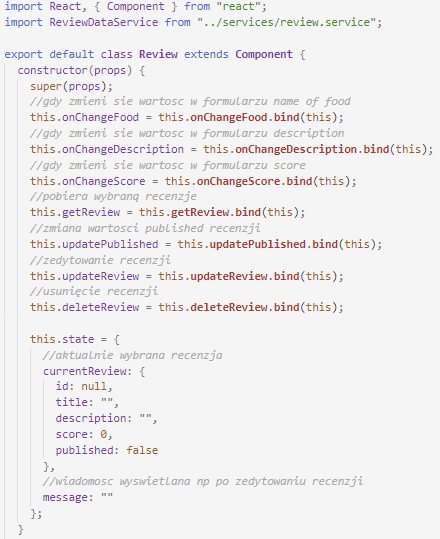
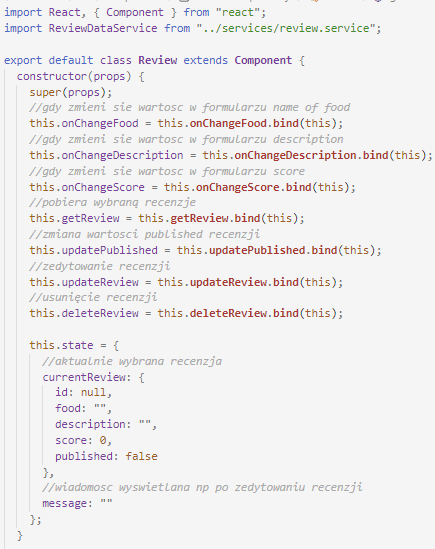
done?

diff --git a/Laboratorium9/frontend/react-crud/src/components/add-review.component.js b/Laboratorium9/frontend/react-crud/src/components/add-review.component.js
@@ -5,10 +5,13 @@ import { Link } from "react-router-dom";
 export default class AddReview extends Component {
   constructor(props) {
     super(props);
+    //zmiany wartosci w formularzu
     this.onChangeFood = this.onChangeFood.bind(this);
     this.onChangeDescription = this.onChangeDescription.bind(this);
     this.onChangeScore = this.onChangeScore.bind(this);
+    //zapisanie nowej recenzji
     this.saveReview = this.saveReview.bind(this);
+    //zmiana stanu na początkowy
     this.newReview = this.newReview.bind(this);
 
     this.state = {
@@ -17,36 +20,50 @@ export default class AddReview extends Component {
       description: "", 
       score: 0,
       published: false,
-
+      //false gdy nie zapiszemy naszej nowej recenzji
+      //po zmianie statusu na true wyswietla sie co innego na stronie
       submitted: false
     };
   }
 
+  //gdy zmienia sie wartosc w formularzu
+  //zapisuja wartosc z formularza
+  //zmieniają stan
   onChangeFood(e) {
     this.setState({
       food: e.target.value
     });
   }
-
   onChangeDescription(e) {
     this.setState({
       description: e.target.value
     });
   }
-
   onChangeScore(e) {
       this.setState({
           score: e.target.value
       });
   }
 
+  //tworzenie nowej recenzji
+  //zapisywanie jej
   saveReview() {
+    //utworzenie obiektu o wartosciach
+    //zapisanych w stanie
+    //food, description,score
     var data = {
       food: this.state.food,
       description: this.state.description,
       score: this.state.score
     };
 
+    //wykorzystanie metody create z pliku
+    //review.service.js
+    //zmieniany jest stan
+    //podstawiane są wartosci nowej recenzji
+    //submitted zmienia sie na true, co powoduje zmienienie
+    //wyswietlanych rzeczy na stronie
+    //w konsoli wyswietlana jest nowa recenzja
     ReviewDataService.create(data)
       .then(response => {
         this.setState({
@@ -64,6 +81,11 @@ export default class AddReview extends Component {
       });
   }
 
+  //wykonywana po wcisnieciu guzika add more
+  //"czyszczenie" stanu, by moc utworzyc nową recenzje
+  //stan musi byc do tego czysty, czyli musi miec
+  //wartosci takie, jakie mial na samym poczatku
+  //przed stworzeniem nowej recenzji
   newReview() {
     this.setState({
       id: null,

diff --git a/Laboratorium9/frontend/react-crud/src/components/review.component.js b/Laboratorium9/frontend/react-crud/src/components/review.component.js
@@ -23,7 +23,7 @@ export default class Review extends Component {
       //aktualnie wybrana recenzja
       currentReview: {
         id: null,
-        title: "",
+        food: "",
         description: "",
         score: 0,
         published: false
@@ -110,7 +110,7 @@ export default class Review extends Component {
   updatePublished(status) {
     var data = {
       id: this.state.currentReview.id,
-      title: this.state.currentReview.food,
+      food: this.state.currentReview.food,
       description: this.state.currentReview.description,
       score: this.state.currentReview.score,
       published: status
@@ -191,7 +191,7 @@ export default class Review extends Component {
                   type="text"
                   className="form-control"
                   id="food"
-                  value={currentReview.tfood}
+                  value={currentReview.food}
                   onChange={this.onChangeFood}
                 />
               </div>

diff --git a/Laboratorium9/food/settings.py b/Laboratorium9/food/settings.py
@@ -21,7 +21,6 @@ BASE_DIR = Path(__file__).resolve().parent.parent
 
 # SECURITY WARNING: keep the secret key used in production secret!
 
-
 # SECURITY WARNING: don't run with debug turned on in production!
 DEBUG = True
 

diff --git a/Laboratorium9/README.md b/Laboratorium9/README.md
@@ -5,6 +5,12 @@ Backend napisany w Django, a frontend napisany za pomocą React.js.
 
 Utworzyłam aplikację z recenzjami jedzenia. Jest to aplikacja CRUD (Create Read Update Delete). Oznacza to, że te cztery podstawowe funkcje są dostępne w stosunku do recenzji (tworzenie, odczytywanie, edytowanie, usuwanie recenzji).
 
+#### Spis treści:
+- Backend - Django [TUTAJ](https://github.com/kamilanagorska/aplikacje-internetowe-nagorska-185ic/tree/main/Laboratorium9#backend----django)
+- Backend - działanie [TUTAJ](https://github.com/kamilanagorska/aplikacje-internetowe-nagorska-185ic/tree/main/Laboratorium9#dzia%C5%82anie-backendu)
+- Frontend - React.js [TUTAJ](https://github.com/kamilanagorska/aplikacje-internetowe-nagorska-185ic/tree/main/Laboratorium9#frontend-reactjs)
+- Frontend - działanie [TUTAJ]()
+
 #### Backend -  Django
 Do utworzenia tego projektu potrzebne były dwa pakiety: djangorestframework i django-cors-headers. Pierwszy z nich już był używany w ramach zajęć, drugi nie.
 
@@ -97,6 +103,10 @@ Gdy odkomentuje zakomentowane url i widok to mam dostęp również do strony loc
 Dodatkowo mogę też wyszukiwać recenzje z wybraną frazą w nazwie jedzenia, np. wchodząc w localhost:8080/api/reviews?food=ma wyświetlane zostają tylko recenzje zawierające ma w nazwie jedzenia:
 
 ![20](https://github.com/kamilanagorska/aplikacje-internetowe-nagorska-185ic/blob/main/Laboratorium9/screenshots/20.png?raw=true)
+
+Recenzje są też oczywiście wwyświetlane w panelu administracyjnym Django:
+
+![54](https://github.com/kamilanagorska/aplikacje-internetowe-nagorska-185ic/blob/main/Laboratorium9/screenshots/54.png?raw=true)
 
 #### Frontend React.js
 Aplikacja korzysta z pakietu react-router-dom, używanego już nie raz na zajęciach. W komponencie App umieściłam navbar, który umożliwia nam przejście do podstrony ze wszystkimi recenzjami i podstrony umożliwiającej dodanie nowej recenzji. Na stronie głównej (ścieżka "/") też wyświetlana jest lista recenzji. Dodatkowo zdefiniowałam ścieżkę do podstrony wyświetlającej szczegóły jednej recenzji i umożliwiającej jej edycje lub usunięcie ("/reviews/:id").
@@ -215,5 +225,116 @@ Poniżej znajdują się jeszcze dwa guziki:
 ![46](https://github.com/kamilanagorska/aplikacje-internetowe-nagorska-185ic/blob/main/Laboratorium9/screenshots/46.png?raw=true)
 
 ##### Komponent add-review.component.js
+W konstruktorze jak za każdym razem znajduje się stan i związanie metod:
 
+![48](https://github.com/kamilanagorska/aplikacje-internetowe-nagorska-185ic/blob/main/Laboratorium9/screenshots/48.png?raw=true)
 
+Poniżej zdefiniowane metody:
+- onChangeFood(e), onChangeDescription(e), onChangeScore(e) - działają tak samo, wykonują się, gdy zmieniona zostaje wartość w formularzu, zmieniają stan:
+
+![49](https://github.com/kamilanagorska/aplikacje-internetowe-nagorska-185ic/blob/main/Laboratorium9/screenshots/49.png?raw=true)
+
+- saveReview() - tworzy nową recenzję i zmienia jej status submitted na true:
+
+![50](https://github.com/kamilanagorska/aplikacje-internetowe-nagorska-185ic/blob/main/Laboratorium9/screenshots/50.png?raw=true)
+
+- newReview() - wykonywana po wciśnięciu guzika Add more, który wyświetla się po utworzeniu już nowej recenzji, ustawia wartości w stanie na te początkowe
+
+![51](https://github.com/kamilanagorska/aplikacje-internetowe-nagorska-185ic/blob/main/Laboratorium9/screenshots/51.png?raw=true)
+
+W render() to co, jest wyświetlane na stronie. Jeśli utworzona już została nowa recenzja wyświetlany jest komunikat o udanym utworzeniu i guzik Add more umożliwiający ponowne utworzenie nowej recenzji. Dodałam tutaj też guzik All reviews, który powoduje przejście do podstrony z listą wszystkich recenzji.
+
+![52](https://github.com/kamilanagorska/aplikacje-internetowe-nagorska-185ic/blob/main/Laboratorium9/screenshots/52.png?raw=true)
+
+Jeśli submitted jest równe false, czyli nie utworzyliśmy jeszcze nowej recenzji to wyświetlany jest formularz umożliwiający wpisanie szczegółów recenzji. Na końcu znajduje się guzik, którego wciśnięcie powoduje zapisanie wprowadzonych danych i utworzenie recenzji.
+
+![53](https://github.com/kamilanagorska/aplikacje-internetowe-nagorska-185ic/blob/main/Laboratorium9/screenshots/53.png?raw=true)
+
+#### Działanie frontendu
+Gdy wchodzimy na stronę główną lub na podstronę '/reviews' wyświetlana jest lista wszystkich recenzji:
+
+![55](https://github.com/kamilanagorska/aplikacje-internetowe-nagorska-185ic/blob/main/Laboratorium9/screenshots/55.png?raw=true)
+
+Są one też wyświetlane w konsoli: 
+
+![59](https://github.com/kamilanagorska/aplikacje-internetowe-nagorska-185ic/blob/main/Laboratorium9/screenshots/59.png?raw=true)
+
+Na górze znajduje się navbar, który umożliwia przejście do '/' klikając na Food Reviewer, do '/reviews' klikając all reviews lub do '/add' klikając add new review. Pod navbarem jest pole, gdzie możemy wpisać nazwę jedzenia, które zostanie wyszukane:
+
+![56](https://github.com/kamilanagorska/aplikacje-internetowe-nagorska-185ic/blob/main/Laboratorium9/screenshots/56.png?raw=true)
+
+Po kliknięciu guzika Search:
+
+![57](https://github.com/kamilanagorska/aplikacje-internetowe-nagorska-185ic/blob/main/Laboratorium9/screenshots/57.png?raw=true)
+
+Wynik w konsoli:
+
+![60](https://github.com/kamilanagorska/aplikacje-internetowe-nagorska-185ic/blob/main/Laboratorium9/screenshots/60.png?raw=true)
+
+Gdy klikniemy na wybraną recenzje pojawią się jej szczegóły:
+
+![58](https://github.com/kamilanagorska/aplikacje-internetowe-nagorska-185ic/blob/main/Laboratorium9/screenshots/58.png?raw=true)
+
+Możemy kliknąć Edit, co spowoduje przejście do podstrony z edycją recenzji:
+
+![61](https://github.com/kamilanagorska/aplikacje-internetowe-nagorska-185ic/blob/main/Laboratorium9/screenshots/61.png?raw=true)
+
+W konsoli jest wyświetlana wybrana recenzja:
+
+![62](https://github.com/kamilanagorska/aplikacje-internetowe-nagorska-185ic/blob/main/Laboratorium9/screenshots/62.png?raw=true)
+
+Zmienienie statusu recenzji klikając UnPublish:
+
+![63](https://github.com/kamilanagorska/aplikacje-internetowe-nagorska-185ic/blob/main/Laboratorium9/screenshots/63.png?raw=true)
+
+Zmieniona recenzja pojawia się w konsoli:
+
+![64](https://github.com/kamilanagorska/aplikacje-internetowe-nagorska-185ic/blob/main/Laboratorium9/screenshots/64.png?raw=true)
+
+Edycja opisu:
+
+![65](https://github.com/kamilanagorska/aplikacje-internetowe-nagorska-185ic/blob/main/Laboratorium9/screenshots/65.png?raw=true)
+
+Po kliknięciu Update:
+
+![66](https://github.com/kamilanagorska/aplikacje-internetowe-nagorska-185ic/blob/main/Laboratorium9/screenshots/66.png?raw=true)
+
+![67](https://github.com/kamilanagorska/aplikacje-internetowe-nagorska-185ic/blob/main/Laboratorium9/screenshots/67.png?raw=true)
+
+Usunięcie recenzji poprzez naciśnięcie guzika Delete:
+
+![68](https://github.com/kamilanagorska/aplikacje-internetowe-nagorska-185ic/blob/main/Laboratorium9/screenshots/68.png?raw=true)
+
+![69](https://github.com/kamilanagorska/aplikacje-internetowe-nagorska-185ic/blob/main/Laboratorium9/screenshots/69.png?raw=true)
+
+Strona umożliwiająca dodawanie nowych recenzji:
+
+![70](https://github.com/kamilanagorska/aplikacje-internetowe-nagorska-185ic/blob/main/Laboratorium9/screenshots/70.png?raw=true)
+
+Tworząc model Review zdefiniowałam, że score musi być od 0 do 10, więc gdy w aplikacji wpiszę np. 20 to wyświetlony zostanie błąd w konsoli:
+
+![71](https://github.com/kamilanagorska/aplikacje-internetowe-nagorska-185ic/blob/main/Laboratorium9/screenshots/71.png?raw=true)
+
+![72](https://github.com/kamilanagorska/aplikacje-internetowe-nagorska-185ic/blob/main/Laboratorium9/screenshots/72.png?raw=true)
+
+Dodanie nowej recenzji z poprawną oceną:
+
+![73](https://github.com/kamilanagorska/aplikacje-internetowe-nagorska-185ic/blob/main/Laboratorium9/screenshots/73.png?raw=true)
+
+![74](https://github.com/kamilanagorska/aplikacje-internetowe-nagorska-185ic/blob/main/Laboratorium9/screenshots/74.png?raw=true)
+
+![75](https://github.com/kamilanagorska/aplikacje-internetowe-nagorska-185ic/blob/main/Laboratorium9/screenshots/75.png?raw=true)
+
+Po wciśnięciu Add more:
+
+![76](https://github.com/kamilanagorska/aplikacje-internetowe-nagorska-185ic/blob/main/Laboratorium9/screenshots/76.png?raw=true)
+
+Po wciśnięciu All reviews:
+
+![77](https://github.com/kamilanagorska/aplikacje-internetowe-nagorska-185ic/blob/main/Laboratorium9/screenshots/77.png?raw=true)
+
+Wciśnięcie Remove All powoduje usunięcie wszystkich recenzji:
+
+![78](https://github.com/kamilanagorska/aplikacje-internetowe-nagorska-185ic/blob/main/Laboratorium9/screenshots/78.png?raw=true)
+
+![79](https://github.com/kamilanagorska/aplikacje-internetowe-nagorska-185ic/blob/main/Laboratorium9/screenshots/79.png?raw=true)
